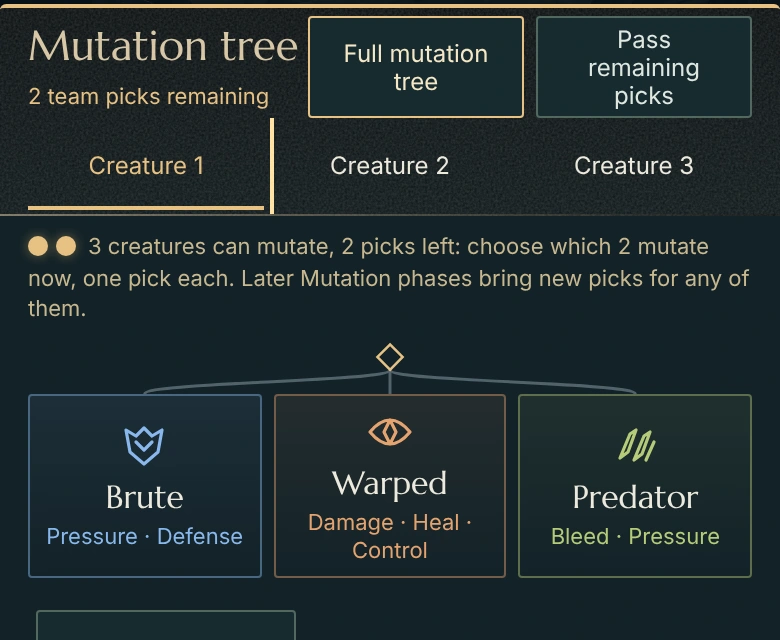
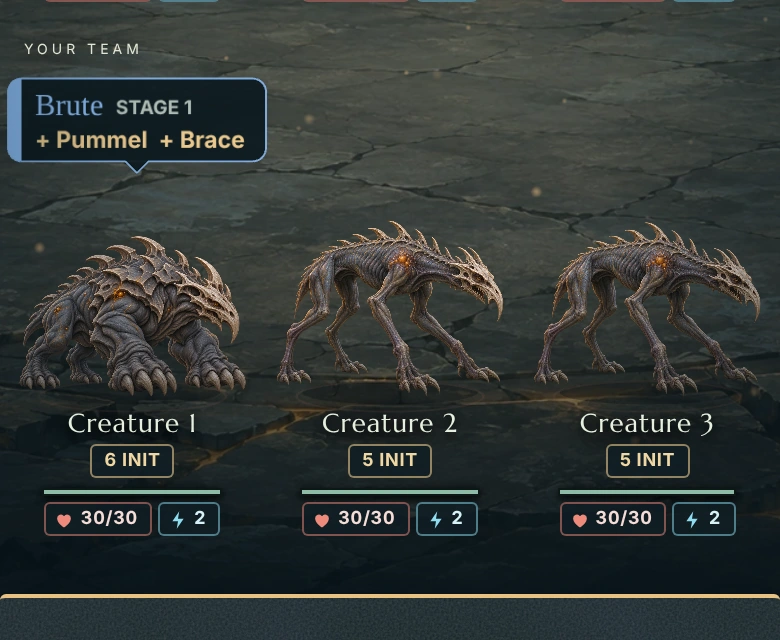
Follow one Brute through the showcase's round (UX6)
The owner asked on the pull request: Mutate shows Creature 1 revealed as a Brute,
Choose a tempo the revealed order where it plays Instinct and acts first, and the
Cast strip rests on the blow's contact under less motion. scripts/ux/round.mjs
walks that round itself; a strip may name its still frame (ADR 0199).

Claude-Session: https://claude.ai/code/session_01EeBMavHmdTy9n7zHG3FKqf

diff --git a/table/picture.js b/table/picture.js
@@ -68,22 +68,29 @@ function stripOf(name, { page, art = PAGE_ART }) {
   return entry;
 }
 
-/** What the strip's frame carries: its count, and its name for a screen reader, one for the whole strip. */
-const frameAttributes = (frames, alt) => ({ class: 'motion-strip', 'data-frames': frames, ...(alt ? { role: 'img', 'aria-label': alt } : { 'aria-hidden': 'true' }) });
+/**
+ * What the strip's frame carries: its count, the frame it rests on under less motion when that is not the first
+ * (ADR 0199), and its name for a screen reader, one for the whole strip.
+ */
+function frameAttributes(frames, alt, still) {
+  if (still !== undefined && !(Number.isInteger(still) && still >= 1 && still <= frames)) throw new Error(`A strip of ${frames} frames rests on a frame from 1 to ${frames}, not ${still}`);
+  return { class: 'motion-strip', 'data-frames': frames, ...(still > 1 ? { 'data-still': still } : {}), ...(alt ? { role: 'img', 'aria-label': alt } : { 'aria-hidden': 'true' }) };
+}
 
 /**
  * A strip of frames as text: one file, its frames side by side, stepped across its frame by the motion kit while
- * it is the screen's ambience. Under less motion, and before it is in view, it is its first frame.
+ * it is the screen's ambience. Before it is in view it is its first frame; under less motion it is `still`, the
+ * frame that says what the strip shows (the first by default).
  */
 export function stripHtml(name, options = {}) {
   const entry = stripOf(name, options);
-  return `<span ${written(frameAttributes(entry.frames, options.alt))}>${pictureHtml(name, { ...options, alt: '' })}</span>`;
+  return `<span ${written(frameAttributes(entry.frames, options.alt, options.still))}>${pictureHtml(name, { ...options, alt: '' })}</span>`;
 }
 
 /** A strip of frames as an element. Call `watch()` of motion.js once it is on the page. */
 export function stripElement(doc, name, options = {}) {
   const entry = stripOf(name, options), frame = doc.createElement('span');
-  for (const [attribute, value] of Object.entries(frameAttributes(entry.frames, options.alt))) frame.setAttribute(attribute, String(value));
+  for (const [attribute, value] of Object.entries(frameAttributes(entry.frames, options.alt, options.still))) frame.setAttribute(attribute, String(value));
   frame.append(pictureElement(doc, name, { ...options, alt: '' }));
   return frame;
 }

diff --git a/table/picture.test.js b/table/picture.test.js
@@ -66,6 +66,18 @@ test('a strip is one element with one name, its frames in one file as wide as al
   assert.throws(() => stripHtml('beast', { page: 'home', art: ART }), /not a strip/);
 });
 
+test('a strip names the frame it rests on under less motion, the first unless told (ADR 0199)', () => {
+  assert.match(stripHtml('cast', { page: 'home', art: ART, still: 4 }), /^<span class="motion-strip" data-frames="6" data-still="4" aria-hidden="true">/);
+  assert.doesNotMatch(stripHtml('cast', { page: 'home', art: ART, still: 1 }), /data-still/, 'the first frame is the default and is not written');
+  assert.equal(stripElement(fakeDocument(), 'cast', { page: 'home', art: ART, still: 6 }).attributes['data-still'], '6');
+  for (const still of [0, 7, 2.5]) assert.throws(() => stripHtml('cast', { page: 'home', art: ART, still }), /rests on a frame from 1 to 6/);
+  const sheet = readFileSync(new URL('identity.css', import.meta.url), 'utf8');
+  for (let frame = 2; frame <= STRIP_FRAMES; frame++) assert.ok(sheet.includes(`.motion-strip[data-still="${frame}"] { --still: ${frame - 1}; }`), `frame ${frame}`);
+  // Under the system's wish and under the account's: a still pose, set outside full motion.
+  assert.match(sheet, /@media \(prefers-reduced-motion: reduce\) \{\s*\.motion-strip\[data-still\] > img \{ margin-left: calc\(var\(--still\) \* -100%\); \}/);
+  assert.match(sheet, /:root\[data-motion="less"\] \.motion-strip\[data-still\] > img \{ margin-left: calc\(var\(--still\) \* -100%\); \}/);
+});
+
 test('the sheet steps a strip of every count the form allows, and nothing in the form needs an inline style', () => {
   const sheet = read('table/identity.css');
   for (let frames = 2; frames <= STRIP_FRAMES; frames++) assert.ok(sheet.includes(`.motion-strip[data-frames="${frames}"] { --frames: ${frames}; }`), `${frames} frames`);

diff --git a/studio/ux-round.test.js b/studio/ux-round.test.js
@@ -2,21 +2,24 @@
 import assert from 'node:assert/strict';
 import { readFileSync } from 'node:fs';
 import test from 'node:test';
-import { CAST, FRAME, PHONE, SCALE, SCREENS, SOURCES, boxOf, castFrame, parseArguments } from '../scripts/ux/round.mjs';
-import { JOURNEYS } from '../scripts/ux/journeys.mjs';
+import { CAST, FOLLOWED, FRAME, PHONE, ROUND, SCALE, SCREENS, SOURCES, boxOf, castFrame, parseArguments } from '../scripts/ux/round.mjs';
 
 const declaration = JSON.parse(readFileSync(new URL('../docs/art/page-pictures.json', import.meta.url), 'utf8'));
 const declared = name => declaration.pictures.find(picture => picture.name === name);
 
-test('each move is a screen the match journey walks, cut to one shape inside the phone', () => {
-  const match = JOURNEYS.find(journey => journey.id === 'match');
+test('each move is a screen the round\'s walk pictures, cut to one shape inside the phone', () => {
   for (const { name, screen, top } of SCREENS) {
-    assert.ok(match.screens.includes(screen), screen);
+    assert.ok(ROUND.screens.includes(screen), screen);
     assert.equal(declared(name).source, `${SOURCES}/${name}.webp`);
     const [left, upper, right, lower] = boxOf(top);
     assert.deepEqual([left, right - left, lower - upper], [0, FRAME.width * SCALE, FRAME.height * SCALE]);
     assert.ok(lower <= PHONE.height * SCALE);
   }
+});
+
+test('the round follows a Brute on Instinct, the creature the Cast strip films', () => {
+  assert.deepEqual(FOLLOWED, { creature: 1, mutation: 'tier:brute:v1', speed: 'Quick' });
+  assert.equal(CAST.spell, 'spell:pummel:v1', 'Pummel is the Brute\'s first spell');
 });
 
 test('a part that would leave the phone is refused', () => {

diff --git a/table/identity.css b/table/identity.css
@@ -268,6 +268,23 @@ html[data-feedback-muted] #settings-dialog .settings-feedback { display: none; }
 .motion-strip[data-frames="10"] { --frames: 10; }
 .motion-strip[data-frames="11"] { --frames: 11; }
 .motion-strip[data-frames="12"] { --frames: 12; }
+/* Under less motion a strip rests on the frame it names (`data-still`, ADR 0199): a still pose, not a move, so it is
+   set by a margin and holds under the system's wish and the account's alike. */
+.motion-strip[data-still="2"] { --still: 1; }
+.motion-strip[data-still="3"] { --still: 2; }
+.motion-strip[data-still="4"] { --still: 3; }
+.motion-strip[data-still="5"] { --still: 4; }
+.motion-strip[data-still="6"] { --still: 5; }
+.motion-strip[data-still="7"] { --still: 6; }
+.motion-strip[data-still="8"] { --still: 7; }
+.motion-strip[data-still="9"] { --still: 8; }
+.motion-strip[data-still="10"] { --still: 9; }
+.motion-strip[data-still="11"] { --still: 10; }
+.motion-strip[data-still="12"] { --still: 11; }
+@media (prefers-reduced-motion: reduce) {
+  .motion-strip[data-still] > img { margin-left: calc(var(--still) * -100%); }
+}
+:root[data-motion="less"] .motion-strip[data-still] > img { margin-left: calc(var(--still) * -100%); }
 @media (prefers-reduced-motion: no-preference) {
   @keyframes motion-strip { to { translate: calc(-100% * (var(--frames) - 1) / var(--frames)) 0; } }
   :root:not([data-motion="less"]) .motion-strip[data-ambient="playing"] > img { animation: motion-strip var(--motion-strip) steps(var(--frames), jump-none) forwards; }

diff --git a/table/page-art.js b/table/page-art.js
@@ -37,17 +37,17 @@ export const PAGE_ART = {
     ],
   },
   'round-mutate': {
-    from: '50204e1e51ca70b5', frames: 1, drawn: [351], pages: {"showcase/home":"lazy"},
+    from: '6aa9a4c5da41b535', frames: 1, drawn: [351], pages: {"showcase/home":"lazy"},
     sizes: [
-      { file: 'round-mutate-351.da705716.webp', width: 351, height: 288, bytes: 12276 },
-      { file: 'round-mutate-702.554c2eae.webp', width: 702, height: 576, bytes: 36132 },
+      { file: 'round-mutate-351.fd0525db.webp', width: 351, height: 288, bytes: 14300 },
+      { file: 'round-mutate-702.517c9e7e.webp', width: 702, height: 576, bytes: 42118 },
     ],
   },
   'round-tempo': {
-    from: '23ced012081f7c8f', frames: 1, drawn: [351], pages: {"showcase/home":"lazy"},
+    from: 'be84140130aa7d4f', frames: 1, drawn: [351], pages: {"showcase/home":"lazy"},
     sizes: [
-      { file: 'round-tempo-351.68d530c5.webp', width: 351, height: 288, bytes: 15354 },
-      { file: 'round-tempo-702.a65ce414.webp', width: 702, height: 576, bytes: 47230 },
+      { file: 'round-tempo-351.8e45264e.webp', width: 351, height: 288, bytes: 15492 },
+      { file: 'round-tempo-702.0ba73a1d.webp', width: 702, height: 576, bytes: 44264 },
     ],
   },
   'round-cast': {

diff --git a/showcase/showcase.css b/showcase/showcase.css
@@ -363,6 +363,12 @@ h2 { font-size: clamp(37px, 4.5vw, 75px); line-height: 1.07; letter-spacing: -.0
 .motion-strip { display: block; overflow: hidden; }
 .motion-strip > img { display: block; width: calc(var(--frames) * 100%); max-width: none; height: auto; }
 .motion-strip[data-frames="6"] { --frames: 6; }
+/* Under less motion the strip rests on the frame it names (ADR 0199), as in identity.css. */
+.motion-strip[data-still="4"] { --still: 3; }
+@media (prefers-reduced-motion: reduce) {
+  .motion-strip[data-still] > img { margin-left: calc(var(--still) * -100%); }
+}
+:root[data-motion="less"] .motion-strip[data-still] > img { margin-left: calc(var(--still) * -100%); }
 @media (prefers-reduced-motion: no-preference) {
   @keyframes motion-strip { to { translate: calc(-100% * (var(--frames) - 1) / var(--frames)) 0; } }
   :root:not([data-motion="less"]) .motion-strip[data-ambient="playing"] > img { animation: motion-strip var(--motion-strip) steps(var(--frames), jump-none) forwards; }

diff --git a/showcase/showcase.test.js b/showcase/showcase.test.js
@@ -383,7 +383,7 @@ for (const [lang, file] of [['en', 'index.html'], ['fr', 'fr/index.html']]) {
       assert.equal(attribute(tag, 'loading'), 'lazy', 'below the first screen, it loads when near');
     }
     // The Cast strip is one element with one name; its frames have none.
-    assert.match(moves[2], /<span class="motion-strip" data-frames="6" role="img" aria-label="[^"]{20,}"><img [^>]*alt=""/);
+    assert.match(moves[2], /<span class="motion-strip" data-frames="6" data-still="4" role="img" aria-label="[^"]{20,}"><img [^>]*alt=""/);
     for (const move of moves.slice(0, 2)) assert.ok(attribute(picturesOf(move)[0], 'alt').split(' ').filter(word => /\p{L}/u.test(word)).length <= 14);
   });
 

diff --git a/docs/art/journeys/doors.md b/docs/art/journeys/doors.md
@@ -166,9 +166,9 @@ numeral, name and sentence. The visitor reading the duel's section sees what eac
 
 The `alt` of each picture, in the player's words, as `showcase/copy.mjs` writes them:
 
-- Mutate: "The Mutation Tree in a match: the Brute, Warped and Predator branches for Creature 1."
-- Choose a tempo: "Choosing a tempo in a match: Instinct or Precision for Creature 1."
-- Cast: "A Brute leaps at an enemy with Pummel, and the blow lands."
+- Mutate: "Creature 1 has become a Brute, with Pummel and Brace."
+- Choose a tempo: "The Brute plays Instinct: in the revealed order, it acts first."
+- Cast: "The Brute leaps at an enemy with Pummel, and the blow lands."
 
 Each says what the picture shows, a choice offered and not made, since the screens filmed are the choices open.
 The French page writes its own, in the French terms of `docs/domain/player-terminology.md` (Arbre des mutations).
@@ -177,14 +177,15 @@ The French page writes its own, in the French terms of `docs/domain/player-termi
 
 | Picture | Drawn at | Answers | From |
 | --- | --- | --- | --- |
-| Mutate: the Mutation Tree over the board, Creature 1's three branches (Brute, Warped, Predator). | 351 by 288 px | What is a mutation, on the screen? | `docs/art/sources/pages/round-mutate.webp`, made by `scripts/ux/round.mjs` from the match's `mutation-tree` screen |
-| Choose a tempo: the tempo sheet, Instinct and Precision for Creature 1. | 351 by 288 px | What does choosing a tempo look like? | `docs/art/sources/pages/round-tempo.webp`, made by `scripts/ux/round.mjs` from the match's `tempo-sheet` screen |
-| Cast: a strip of six frames, a Brute's Pummel from the leap to the blow and back. | 351 by 288 px a frame | What happens when a creature acts? | `docs/art/sources/pages/round-cast-1.webp` to `round-cast-6.webp`, made by `scripts/ux/round.mjs` on the effects bench of `scripts/battle/filmstrip.mjs` |
+| Mutate: the player's team once the mutations are revealed, Creature 1 in its Brute form under its label (Brute, Stage I, + Pummel + Brace). | 351 by 288 px | Which creature did I evolve, and into what? | `docs/art/sources/pages/round-mutate.webp`, made by `scripts/ux/round.mjs` from its walk's `mutations-revealed` screen |
+| Choose a tempo: the revealed order, the Brute on Instinct first (1 Instinct, acting), its team on Precision after it. | 351 by 288 px | Which tempo did I choose for it, and what did it buy? | `docs/art/sources/pages/round-tempo.webp`, made by `scripts/ux/round.mjs` from its walk's `order-revealed` screen |
+| Cast: a strip of six frames, the Brute's Pummel from the leap to the blow and back. | 351 by 288 px a frame | What happens when a creature acts? | `docs/art/sources/pages/round-cast-1.webp` to `round-cast-6.webp`, made by `scripts/ux/round.mjs` on the effects bench of `scripts/battle/filmstrip.mjs` |
 
-`scripts/ux/round.mjs` makes all three again from the real battle view. Mutate and Choose a tempo are the match
-journey's screens, walked on a table of seed 7 at 390 by 844 and density 2, cut to 390 by 320 CSS px. Choose a tempo is
-cut from 300 px down. Mutate opens on the Mutation Tree's top edge, 250 px down, below the row of the
-creatures' chips (a first cut from 225 halved that row). The Cast strip is Pummel on the effects bench, at 0, 720, 840, 960, 1080 and 1200 ms of its
+`scripts/ux/round.mjs` makes all three again from the real battle view, following one creature, as the owner
+asked on the pull request: a round of a table of seed 7, walked at 390 by 844 and density 2, where Creature 1
+takes the Brute mutation (the other picks passed) and Instinct (its team Precision). Mutate is the board once the
+mutations are revealed, cut from 375 px down; Choose a tempo is the revealed order, cut from 412 px down, each
+390 by 320 CSS px. The first cuts showed the Mutation Tree and the tempo sheet with nothing chosen. The Cast strip is Pummel on the effects bench, at 0, 720, 840, 960, 1080 and 1200 ms of its
 clock. The three share the shape 39:32, the bench's field of 390 by 320, not the 16:9 first asked: a 16:9 cut
 lost the creatures. They are drawn 351 px wide at 390 and 288 by 236 px at 320, declared in
 `docs/art/page-pictures.json`, and lazy. The strip's file holds its six frames side by side.
@@ -214,7 +215,7 @@ nothing animating at rest on this screen: the strip had not come into view.
 
 | Beat | Form |
 | --- | --- |
-| The cast | The first frame, still: the kit's rule for a strip under less motion (ADR 0198). The `alt` says the blow. |
+| The cast | The fourth frame, still: the blow's contact, which the strip names as its still (ADR 0199). |
 
 ### Accessibility
 
@@ -236,9 +237,6 @@ nothing animating at rest on this screen: the strip had not come into view.
   chose the three moves: the sentences are already there and the words stay under budget.
 - The pictures' text inside them (a chip, a tab's label) is the battle view's at about 0.9 of its size at 390 and
   0.74 at 320: it is a picture of the screen, not words to read, and the `alt` carries it.
-- Under less motion the Cast strip rests on its first frame, the Brute before it acts: ADR 0198 sets a strip's
-  still form so. The settled frame, the blow landed, would say more, but showing it would amend that ADR for every
-  strip, so it is the owner's choice.
 
 ## The sign-in panel (`sign-in-panel`, `invitation-sign-in`)
 

diff --git a/docs/art/ux-craft-plan.md b/docs/art/ux-craft-plan.md
@@ -373,10 +373,12 @@ Proposed here; the ADR of UX4 sets them, and UX14 reads them again.
    `showcase/showcase.test.js`, the journey's measures, the largest paint. A change here publishes the apex
    (`showcase/README.md`).
 
-   *Built (2026-11-20)*: the duel's three moves each show the real battle view above their sentence. Mutate and
-   Choose a tempo are the match journey's `mutation-tree` and `tempo-sheet` screens on a table of seed 7, cut to
-   390 by 320 at twice the density; Cast is a strip of six frames of Pummel from the effects bench, played once
-   in view (`.motion-strip`). `scripts/ux/round.mjs` makes them again into `docs/art/sources/pages/`; they are
+   *Built (2026-11-20)*: the duel's three moves each show the real battle view above their sentence, following
+   one Brute through its round, as the owner asked on the pull request. On a table of seed 7, Creature 1 takes the
+   Brute mutation and Instinct: Mutate is its team once the mutations are revealed, Choose a tempo the revealed
+   order where it acts first, each cut to 390 by 320 at twice the density; Cast is a strip of six frames of its
+   Pummel from the effects bench, played once in view (`.motion-strip`), resting on the blow's contact under less
+   motion ([ADR 0199](../adr/0199-let-a-strip-of-frames-rest-on-the-frame-that-says-what-it-shows.md)). `scripts/ux/round.mjs` makes them again into `docs/art/sources/pages/`; they are
    39:32, the bench's field, not the brief's 16:9, which cut the creatures. Every painting of the home is now the
    kit's `<img>` at the size it is drawn. The ground, a CSS background before, is asked for first with the
    Colossus. The Colossus breathes; the home loads `table/motion.js` for it. The battlefield, the five specimens,
@@ -389,9 +391,7 @@ Proposed here; the ADR of UX4 sets them, and UX14 reads them again.
    `showcase-round`, and the measure no longer counts an SVG as sent oversized. `studio/ux-round.test.js` holds
    the script; `showcase/showcase.test.js` the round, the kit's pictures and the one filled action.
 
-   Left: the language's fade waits, since `table/motion.test.js` refuses `@view-transition` after UX4. Under less
-   motion the Cast strip shows its first frame, the kit's rule (ADR 0198). The blow landed would say more, but
-   showing it would amend that ADR. The field guide's 21 portraits are still sent whole when a form is opened. The rulebook's
+   Left: the language's fade waits, since `table/motion.test.js` refuses `@view-transition` after UX4. The field guide's 21 portraits are still sent whole when a form is opened. The rulebook's
    links inside a sentence stay under 44 px, which WCAG 2.5.8 exempts and the measure counts. The strip is
    331 KB as a phone takes it, a quarter of the home's pictures. The owner's choices are in the brief's
    **Left** ([the doors](journeys/doors.md)). The measure cannot see a picture sent smaller than it is drawn, since

diff --git a/docs/adr/0199-let-a-strip-of-frames-rest-on-the-frame-that-says-what-it-shows.md b/docs/adr/0199-let-a-strip-of-frames-rest-on-the-frame-that-says-what-it-shows.md
@@ -1,0 +1,36 @@
+# 0199. Let a strip of frames rest on the frame that says what it shows
+
+Date: 2026-11-20
+Status: Accepted
+Rulebook: none
+
+## Context
+
+[ADR 0198](0198-send-a-pages-pictures-at-the-size-they-are-drawn-and-draw-one-icon-set.md) made a strip of frames
+its first frame under less motion. The first strip, the showcase's Cast (UX6), starts with the Brute at rest and
+ends on the blow's contact: under less motion a visitor saw a creature waiting, while the strip's name says the
+blow lands. On the pull request the owner asked for the moment of contact as the still form.
+
+## Decision
+
+A strip may name the frame it rests on under less motion: `still`, from 1 to its count, in `table/picture.js`,
+written as `data-still` on the strip. The first frame stays the default. Under the system's wish for less motion
+and under the account's, the kit sets that frame by a margin, a pose and not a move. In full motion nothing
+changes: before it is in view the strip is its first frame, then it plays once and rests on its last.
+
+## Consequences
+
+- Good: a strip says the same thing whether it plays or not, and its name for a screen reader stays true.
+- Good: the default keeps every strip that names no frame as ADR 0198 drew it.
+- Bad: a strip's still frame is chosen by hand, in the page that draws it, and a strip filmed again can move it.
+- Neutral: the kit declares one rule a frame (`data-still="2"` to `"12"`), as it does for the count.
+
+## Alternatives considered
+
+- Reorder the strip so its first frame is the contact: the strip would then play from the blow back to the leap.
+- Rest on the last frame under less motion: the last is often the return to rest, as it is for Pummel.
+
+## Follow-up
+
+`table/identity.css` and `showcase/showcase.css` (the still rules), `table/picture.test.js`,
+`docs/art/page-pictures.md`.

diff --git a/docs/art/page-pictures.md b/docs/art/page-pictures.md
@@ -78,7 +78,9 @@ Then a strip, where code cannot give the move: 2 to 12 frames, declared with `fr
 over `--motion-strip`. It is ambience: `table/motion.js` plays one ambience at a time on a screen, in view, in
 a visible tab. It plays
 once and rests on its last frame; out of view it returns to its first, and plays again when it comes back.
-Under less motion it is its first frame. The strip has one name for a screen reader, its `alt`; its frames
+Under less motion it is its first frame, or the frame the page names with `still`, the one that says what the
+strip shows ([ADR 0199](../adr/0199-let-a-strip-of-frames-rest-on-the-frame-that-says-what-it-shows.md)): the
+showcase's Cast rests on the blow's contact. The strip has one name for a screen reader, its `alt`; its frames
 have none. A page that adds one after it opened calls `watch()` of `mountMotion()`.
 
 A strip counts in the budget as all its frames.

diff --git a/docs/adr/README.md b/docs/adr/README.md
@@ -221,5 +221,6 @@ UPDATE_INDEXES=1 dotnet test --project tests/DownfallArena.Architecture.Tests
 | [0196](0196-stage-a-spell-in-beats-an-effects-kit-plays.md) | Stage a spell in beats an effects kit plays | Accepted |
 | [0197](0197-hold-the-pages-to-wcag-aa-a-vocabulary-of-motion-and-a-budget.md) | Hold the pages to WCAG 2.2 AA, a vocabulary of motion and a budget | Accepted |
 | [0198](0198-send-a-pages-pictures-at-the-size-they-are-drawn-and-draw-one-icon-set.md) | Send a page's pictures at the size they are drawn, and draw one icon set | Accepted |
+| [0199](0199-let-a-strip-of-frames-rest-on-the-frame-that-says-what-it-shows.md) | Let a strip of frames rest on the frame that says what it shows | Accepted |
 
 <!-- index:end -->
